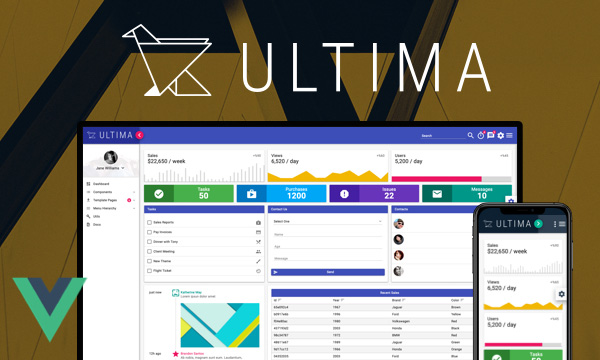
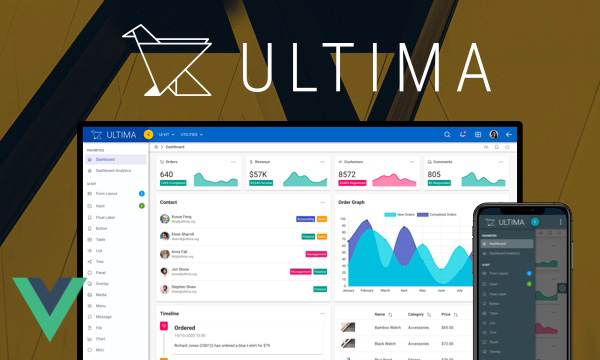
Change Ultima assets for remaster

diff --git a/src/AppConfigurator.vue b/src/AppConfigurator.vue
@@ -298,13 +298,13 @@
                     <p>Beautifully crafted premium <a href="https://cli.vuejs.org">Vue CLI</a> application templates by the PrimeTek design team.</p>
                     <div class="p-grid premium-themes">
                         <div class="p-col-12 p-md-6">
-                            <a href="https://www.primefaces.org/layouts/dimond-vue">
-                                <img alt="Diamond" src="./assets/images/layouts/diamond-vue.jpg">
+                            <a href="https://www.primefaces.org/layouts/ultima-vue">
+                                <img alt="Ultima" src="./assets/images/layouts/ultima-vue.jpg">
                             </a>
                         </div>
                         <div class="p-col-12 p-md-6">
-                            <a href="https://www.primefaces.org/layouts/ultima-vue">
-                                <img alt="Ultima" src="./assets/images/layouts/ultima-vue.jpg">
+                            <a href="https://www.primefaces.org/layouts/diamond-vue">
+                                <img alt="Diamond" src="./assets/images/layouts/diamond-vue.jpg">
                             </a>
                         </div>
                         <div class="p-col-12 p-md-6">

diff --git a/src/views/Home.vue b/src/views/Home.vue
@@ -131,6 +131,11 @@
 
             <div class="p-grid">
                 <div class="p-col-12 p-md-3">
+                    <a href="https://www.primefaces.org/layouts/ultima-vue">
+                        <img alt="Ultima" src="../assets/images/layouts/ultima-vue.jpg">
+                    </a>
+                </div>
+                <div class="p-col-12 p-md-3">
                     <a href="https://www.primefaces.org/layouts/diamond-vue">
                         <img alt="Diamond" src="../assets/images/layouts/diamond-vue.jpg">
                     </a>
@@ -163,11 +168,6 @@
                 <div class="p-col-12 p-md-3">
                     <a href="https://www.primefaces.org/layouts/roma-vue">
                         <img alt="Roma" src="../assets/images/layouts/roma-vue.jpg">
-                    </a>
-                </div>
-                <div class="p-col-12 p-md-3">
-                    <a href="https://www.primefaces.org/layouts/ultima-vue">
-                        <img alt="Ultima" src="../assets/images/layouts/ultima-vue.jpg">
                     </a>
                 </div>
                 <div class="p-col-12 p-md-3">
